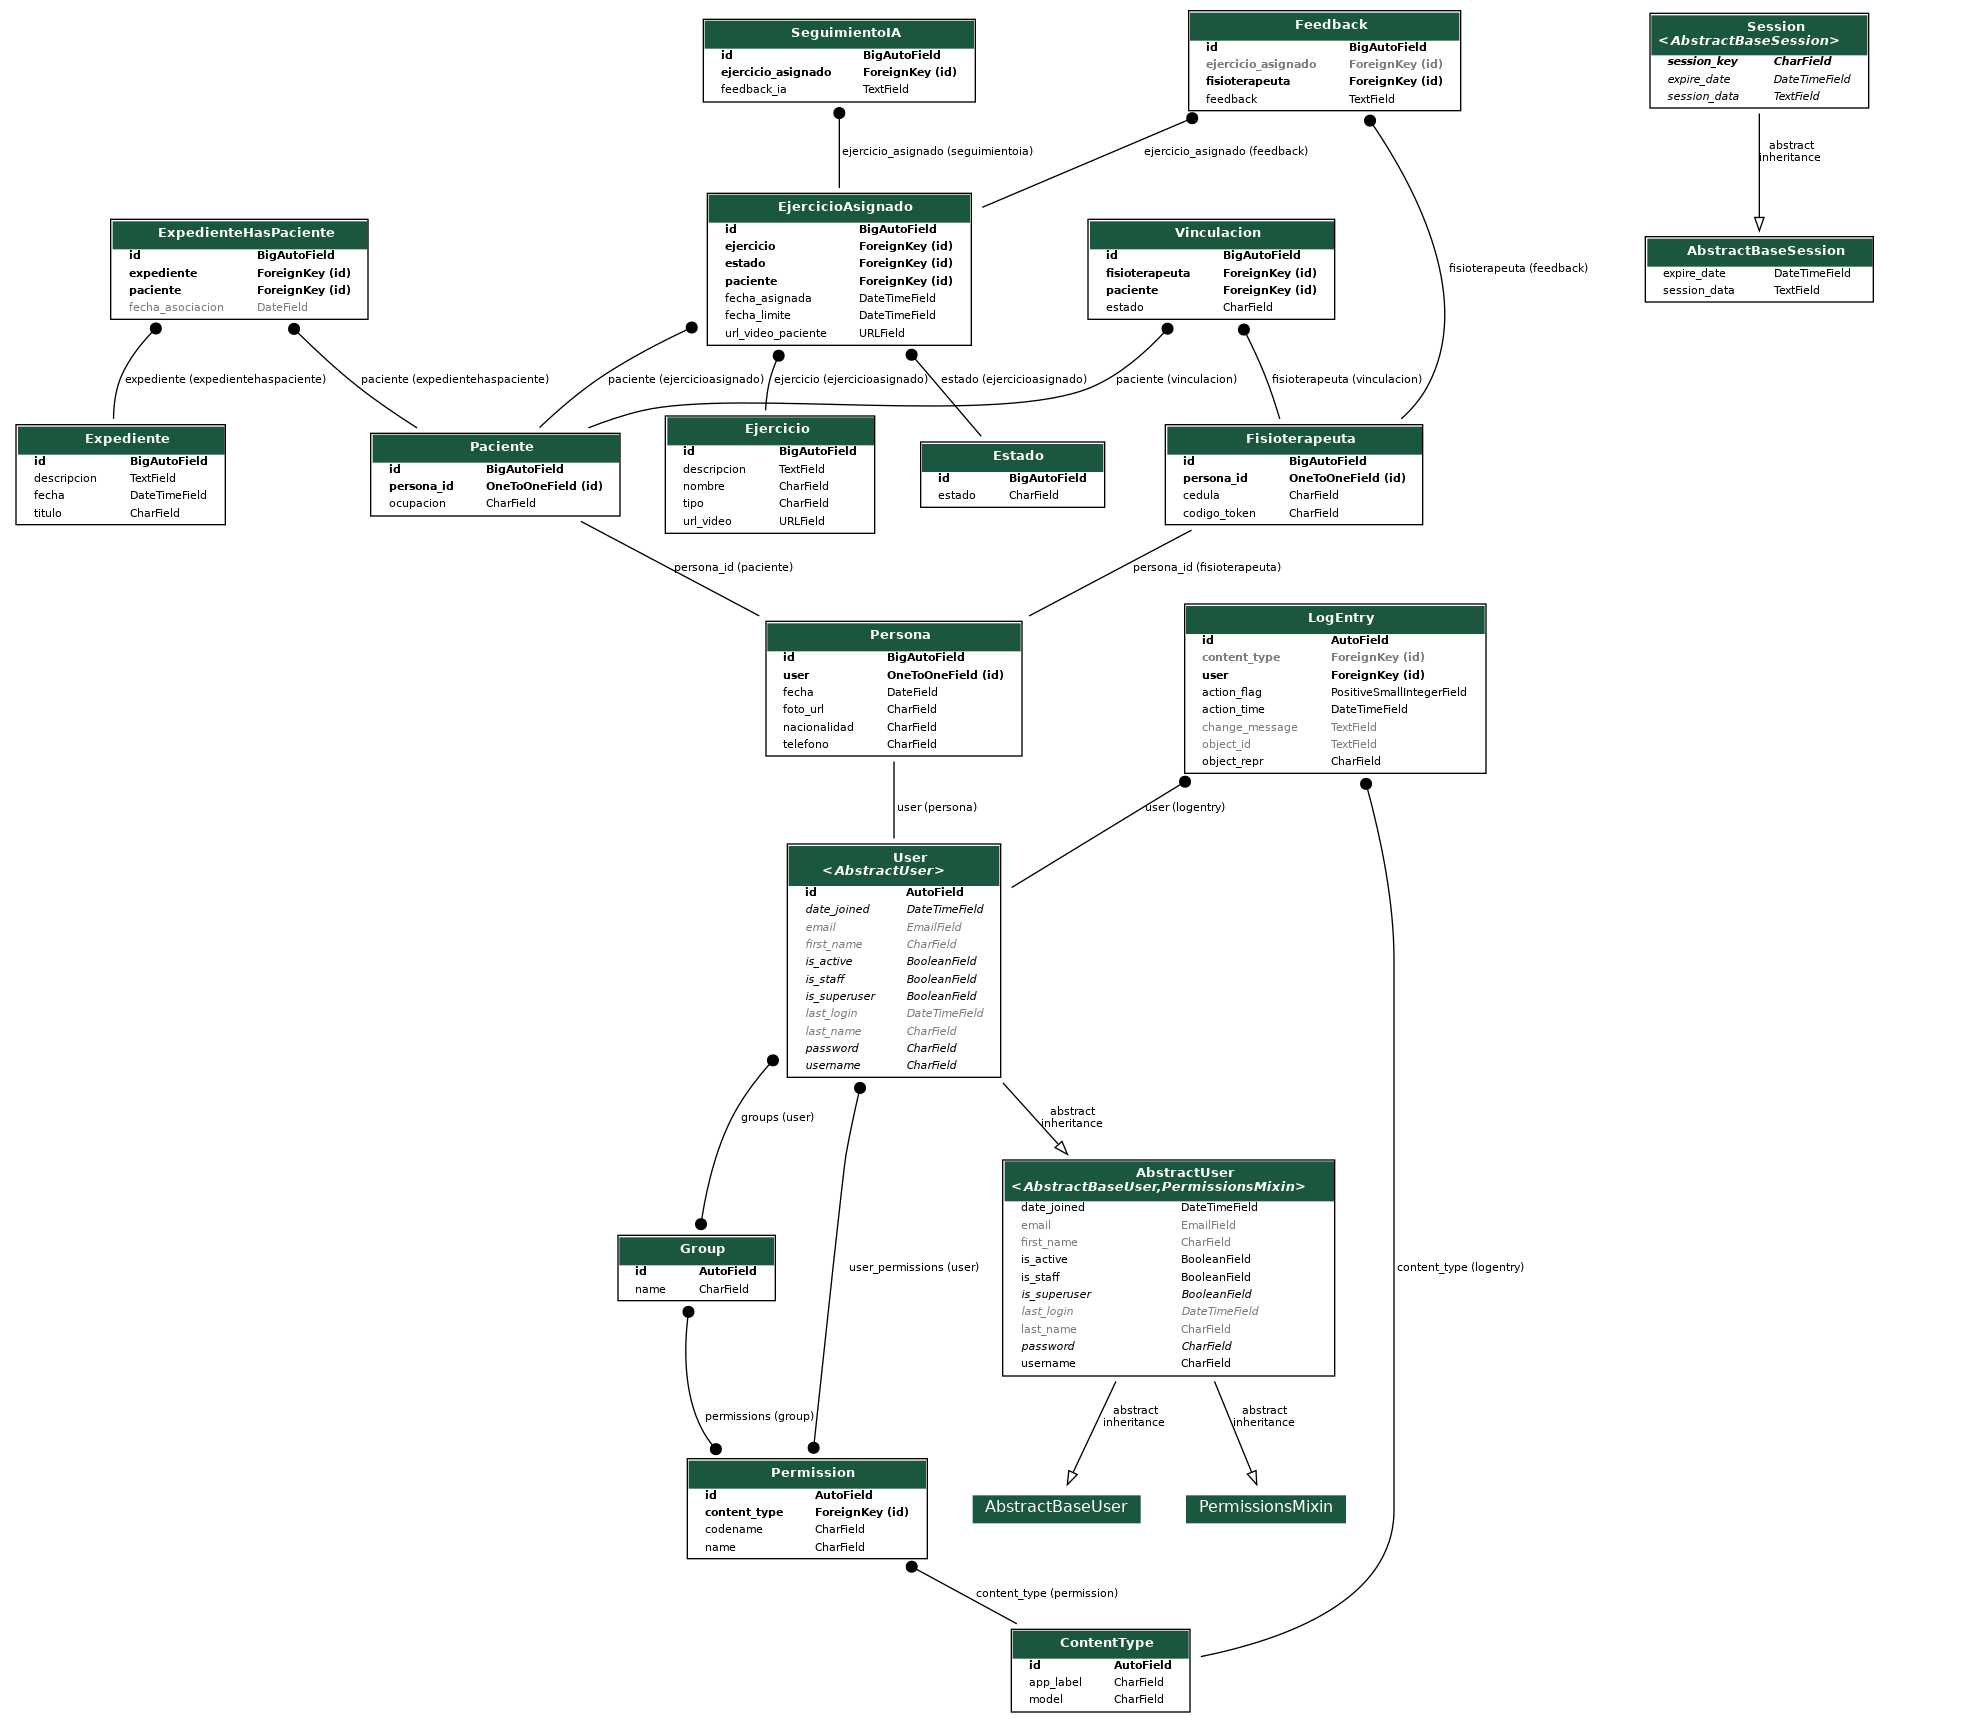
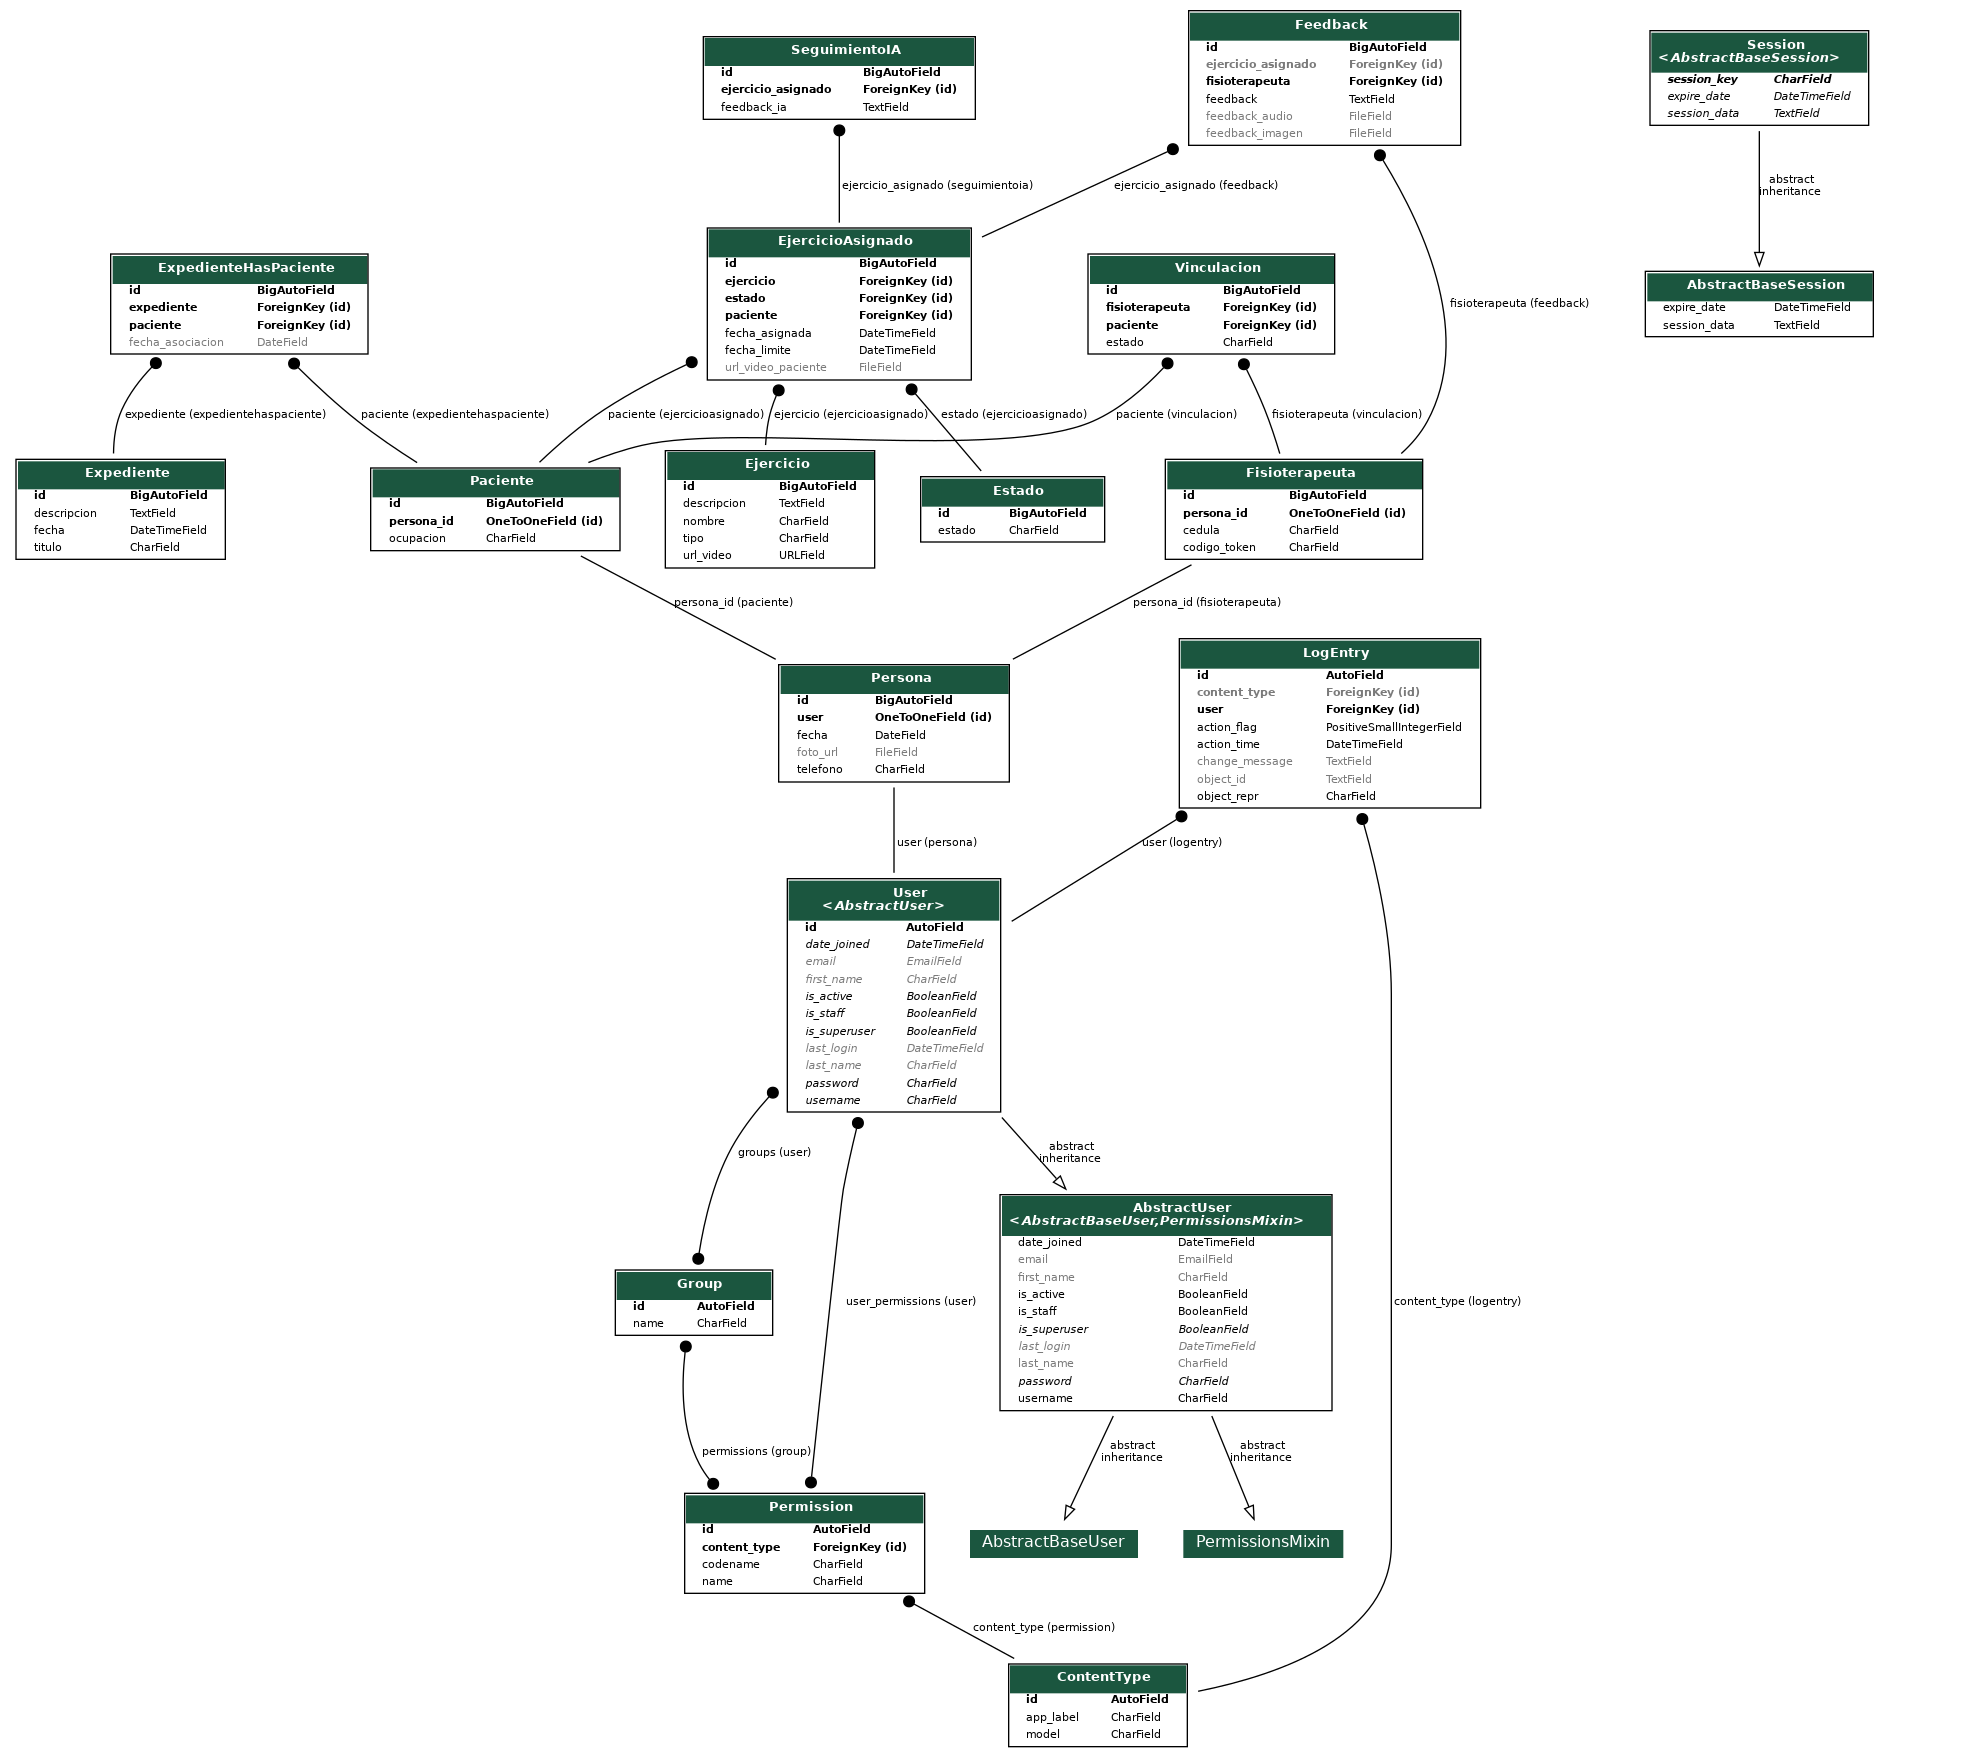
[add] El feedback soporta el audio e imagen (#26)

diff --git a/djangoapp/services/activitiesService.py b/djangoapp/services/activitiesService.py
@@ -23,7 +23,7 @@ def getEjercicioAsignadoByID(id):
         fisioterapeuta_data = {
             "id": fisioterapeuta.id,
             "persona_id": fisioterapeuta.persona_id.id,
-            "fotoUrl": persona_fisio.foto_url,
+            "fotoUrl": str(persona_fisio.foto_url),
             "nombre": persona_fisio.user.first_name,
             "apellidoPat": persona_fisio.user.last_name.split(" ")[0] if persona_fisio.user.last_name else "",
             "apellidoMat": persona_fisio.user.last_name.split(" ")[1] if len(persona_fisio.user.last_name.split(" ")) > 1 else ""
@@ -35,6 +35,8 @@ def getEjercicioAsignadoByID(id):
         feedbacks.append({
             "id": feedback.id,
             "feedback": feedback.feedback,
+            "feedback_audio": str(feedback.feedback_audio) if feedback.feedback_audio else None,
+            "feedback_imagen": str(feedback.feedback_imagen) if feedback.feedback_imagen else None,
             "fisioterapeuta_id": feedback.fisioterapeuta.id
         })
 
@@ -49,7 +51,7 @@ def getEjercicioAsignadoByID(id):
         "paciente": {
             "id": ejercicio_asignado.paciente.id,
             "persona_id": ejercicio_asignado.paciente.persona_id.id,
-            "fotoUrl": ejercicio_asignado.paciente.persona_id.foto_url,
+            "fotoUrl": str(ejercicio_asignado.paciente.persona_id.foto_url),
             "urlVideoPaciente": ejercicio_asignado.url_video_paciente.url if ejercicio_asignado.url_video_paciente else None,
             "nombre": ejercicio_asignado.paciente.persona_id.user.first_name,
             "apellidoPat": last_name_parts[0] if last_name_parts else "",
@@ -94,6 +96,9 @@ def getEjerciciosAsignados(user_id):
             feedbacks.append({
                 "id": feedback.id,
                 "feedback": feedback.feedback,
+                "feedback_audio": str(feedback.feedback_audio) if feedback.feedback_audio else None,
+                "feedback_imagen": str(feedback.feedback_imagen) if feedback.feedback_imagen else None,
+                "fisioterapeuta_id": feedback.fisioterapeuta.id
             })
 
         # Obtener la vinculación del fisioterapeuta con el paciente
@@ -108,7 +113,7 @@ def getEjerciciosAsignados(user_id):
             fisioterapeuta_data = {
                 "id": fisioterapeuta.id,
                 "persona_id": fisioterapeuta.persona_id.id,
-                "fotoUrl": persona_fisio.foto_url,
+                "fotoUrl": str(persona_fisio.foto_url),
                 "nombre": persona_fisio.user.first_name,
                 "apellidoPat": persona_fisio.user.last_name.split(" ")[0] if persona_fisio.user.last_name else "",
                 "apellidoMat": persona_fisio.user.last_name.split(" ")[1] if len(persona_fisio.user.last_name.split(" ")) > 1 else ""
@@ -125,7 +130,7 @@ def getEjerciciosAsignados(user_id):
             "paciente": {
                 "id": ejercicio_asignado.paciente.id,
                 "persona_id": ejercicio_asignado.paciente.persona_id.id,
-                "fotoUrl": ejercicio_asignado.paciente.persona_id.foto_url,
+                "fotoUrl": str(ejercicio_asignado.paciente.persona_id.foto_url),
                 "urlVideoPaciente": ejercicio_asignado.url_video_paciente.url if ejercicio_asignado.url_video_paciente else None,
                 "nombre": ejercicio_asignado.paciente.persona_id.user.first_name,
                 "apellidoPat": last_name_parts[0] if last_name_parts else "",
@@ -181,7 +186,7 @@ def asignarEjercicio(user, ejercicioID, pacienteID, fechaLimite):
             "nombre": paciente.persona_id.user.first_name,
             "apellidoPat": paciente.persona_id.user.last_name.split(" ")[0] if paciente.persona_id.user.last_name else "",
             "apellidoMat": paciente.persona_id.user.last_name.split(" ")[1] if len(paciente.persona_id.user.last_name.split(" ")) > 1 else "",
-            "fotoUrl": paciente.persona_id.foto_url
+            "fotoUrl": str(paciente.persona_id.foto_url)
         },
         "fisioterapeuta": {
             "id": fisioterapeuta.id if fisioterapeuta else "",
@@ -189,7 +194,7 @@ def asignarEjercicio(user, ejercicioID, pacienteID, fechaLimite):
             "nombre": fisioterapeuta.persona_id.user.first_name if fisioterapeuta else "",
             "apellidoPat": fisioterapeuta.persona_id.user.last_name.split(" ")[0] if fisioterapeuta and fisioterapeuta.persona_id.user.last_name else "",
             "apellidoMat": fisioterapeuta.persona_id.user.last_name.split(" ")[1] if fisioterapeuta and len(fisioterapeuta.persona_id.user.last_name.split(" ")) > 1 else "",
-            "fotoUrl": fisioterapeuta.persona_id.foto_url if fisioterapeuta else ""
+            "fotoUrl": str(fisioterapeuta.persona_id.foto_url) if fisioterapeuta else ""
         }
     }
 
@@ -229,7 +234,7 @@ def actualizarEjercicioAsignado(ejercicioAsignadoID, ejercicioID, pacienteID, nu
                 "nombre": ejercicio_asignado.paciente.persona_id.user.first_name,
                 "apellidoPat": ejercicio_asignado.paciente.persona_id.user.last_name.split(" ")[0] if ejercicio_asignado.paciente.persona_id.user.last_name else "",
                 "apellidoMat": ejercicio_asignado.paciente.persona_id.user.last_name.split(" ")[1] if len(ejercicio_asignado.paciente.persona_id.user.last_name.split(" ")) > 1 else "",
-                "fotoUrl": ejercicio_asignado.paciente.persona_id.foto_url
+                "fotoUrl": str(ejercicio_asignado.paciente.persona_id.foto_url)
             },
             "ejercicio": {
                 "id": ejercicio_asignado.ejercicio.id,

diff --git a/djangoapp/services/user/PhysiotherapistService.py b/djangoapp/services/user/PhysiotherapistService.py
@@ -117,13 +117,14 @@ def getLinks(user_id, estado=None):
 def sendFeedback(data, user_id):
     try:
         ejercicio_asignado = EjercicioAsignado.objects.get(id=data["ejercicio_asignado_id"])
-
-        fisioterapeuta = Fisioterapeuta.objects.get(persona_id__user__id=user_id)  # Obtener la instancia de Fisioterapeuta
+        fisioterapeuta = Fisioterapeuta.objects.get(persona_id__user__id=user_id)
 
         feedback = Feedback.objects.create(
-            fisioterapeuta=fisioterapeuta,  # Pasar la instancia en lugar del ID
-            ejercicio_asignado=ejercicio_asignado,  # Pasar la instancia en lugar del ID
-            feedback=data.get("feedback")
+            fisioterapeuta=fisioterapeuta,
+            ejercicio_asignado=ejercicio_asignado,
+            feedback=str(data.get("feedback")),
+            feedback_audio=data.get("audio"),
+            feedback_imagen=data.get("video")
         )
 
         return {"mensaje": "Feedback guardado exitosamente.", "feedback_id": feedback.id}

diff --git a/djangoapp/migrations/0011_feedback_feedback_audio_feedback_feedback_imagen.py b/djangoapp/migrations/0011_feedback_feedback_audio_feedback_feedback_imagen.py
@@ -1,0 +1,23 @@
+# Generated by Django 5.1.7 on 2025-05-06 22:42
+
+from django.db import migrations, models
+
+
+class Migration(migrations.Migration):
+
+    dependencies = [
+        ('djangoapp', '0010_alter_ejercicioasignado_url_video_paciente_and_more'),
+    ]
+
+    operations = [
+        migrations.AddField(
+            model_name='feedback',
+            name='feedback_audio',
+            field=models.FileField(blank=True, null=True, upload_to='storage/feedback/audio'),
+        ),
+        migrations.AddField(
+            model_name='feedback',
+            name='feedback_imagen',
+            field=models.FileField(blank=True, null=True, upload_to='storage/feedback/imagen'),
+        ),
+    ]

diff --git a/djangoapp/models.py b/djangoapp/models.py
@@ -81,6 +81,8 @@ class Feedback(models.Model):
     fisioterapeuta = models.ForeignKey(Fisioterapeuta, on_delete=models.CASCADE)
     ejercicio_asignado = models.ForeignKey(EjercicioAsignado, on_delete=models.CASCADE, null=True, blank=True)
     feedback = models.TextField(null=True)
+    feedback_audio = models.FileField(upload_to='storage/feedback/audio', null=True, blank=True)
+    feedback_imagen = models.FileField(upload_to='storage/feedback/imagen', null=True, blank=True)
 
     class Meta:
         db_table = 'Feedback'

diff --git a/djangoapp/serializers/usersSeralizer.py b/djangoapp/serializers/usersSeralizer.py
@@ -42,6 +42,8 @@ class LinkPatientToPhysiotherapistSerializer(serializers.Serializer):
 class SendFeedbackSerializer(serializers.Serializer):
     ejercicio_asignado_id = serializers.IntegerField(required=True)
     feedback = serializers.CharField(required=True)
+    audio = serializers.FileField(required=False)
+    video = serializers.FileField(required=False)
 
 class LinkIdSerializer(serializers.Serializer):
     link_id = serializers.IntegerField(required=True)
